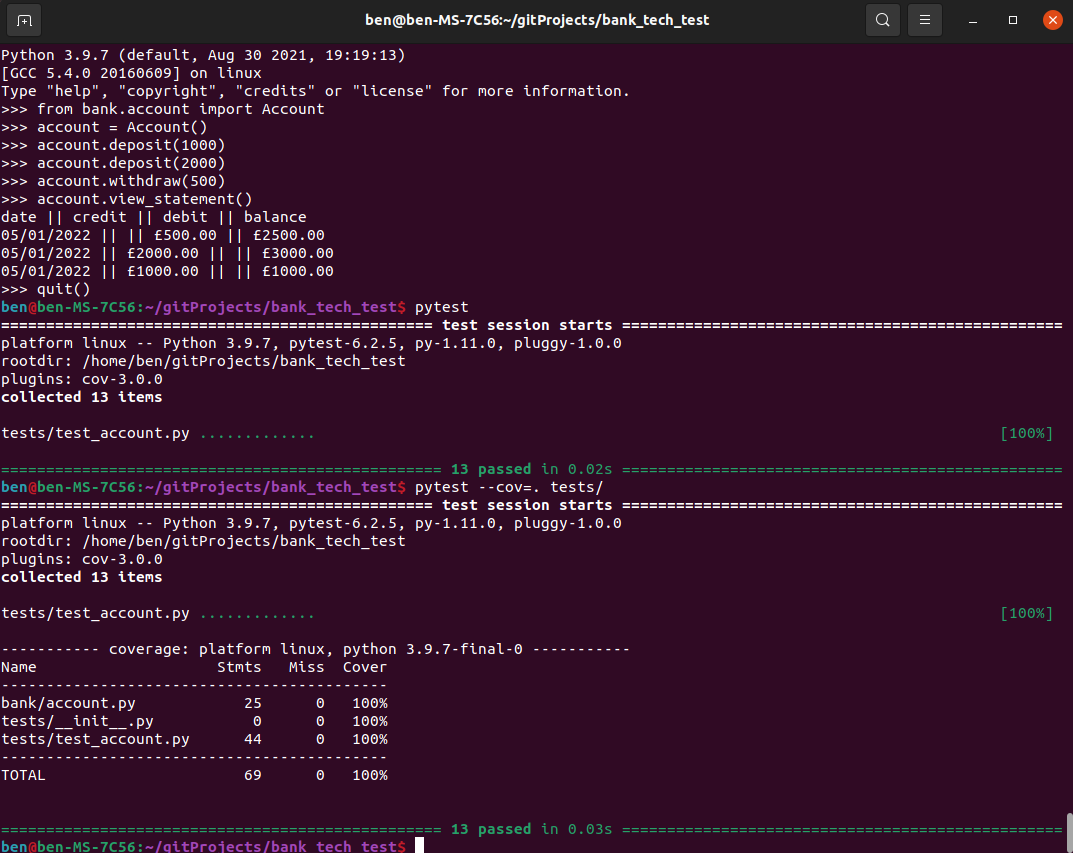
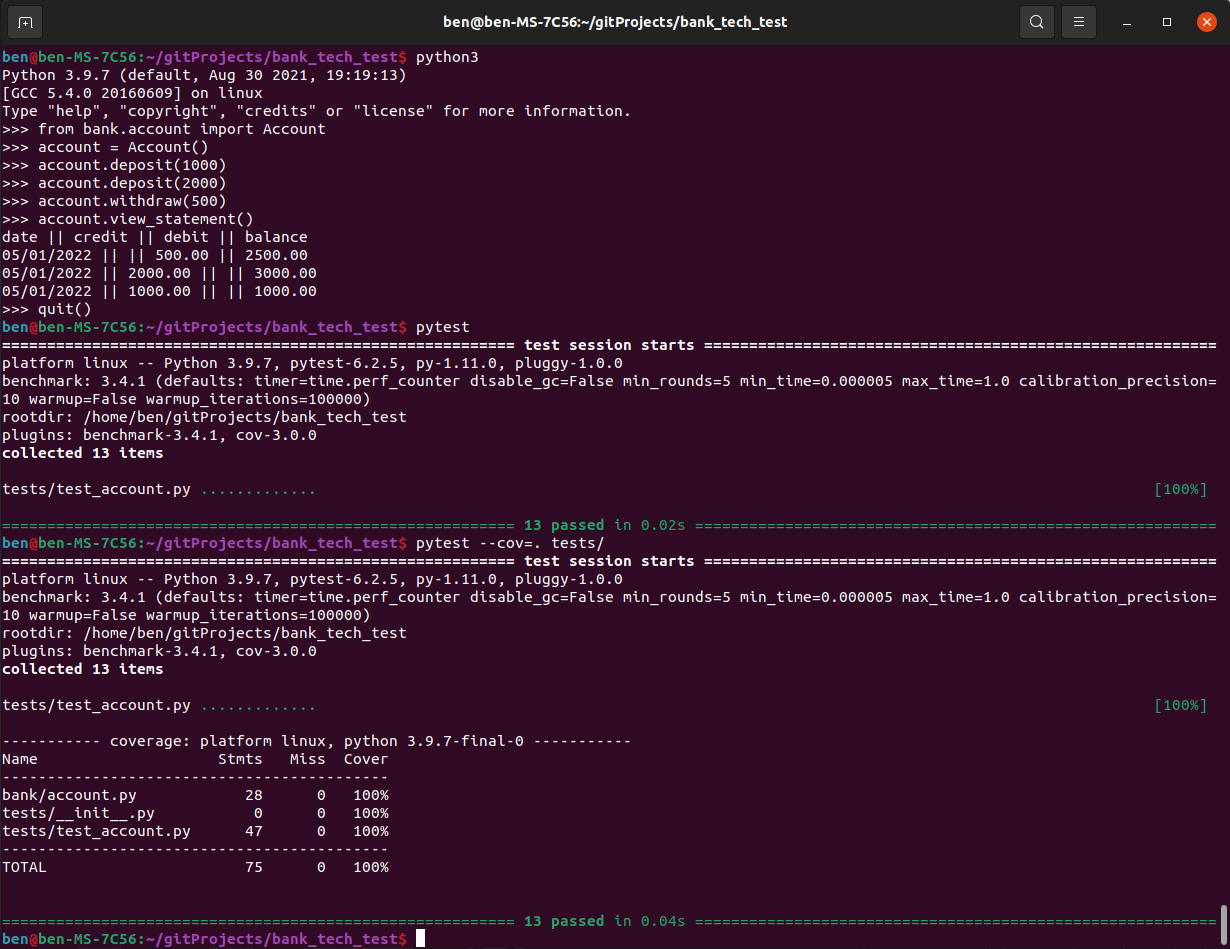
Code quality changes guided by Pylint

diff --git a/tests/test_account.py b/tests/test_account.py
@@ -1,61 +1,80 @@
-from bank.account import Account
+"""
+Testing the Account() class
+"""
+
 import re
 import pytest
+from bank.account import Account
 
-@pytest.fixture
-def account():
+@pytest.fixture(name="account")
+def fixture_account():
+    """Creates an instance of Account() class"""
     account = Account()
     yield account
 
-@pytest.fixture
-def account_deposit(account):
+@pytest.fixture(name="account_deposit")
+def fixture_account_deposit():
+    """Creates an instance of Account class and deposits funds"""
+    account = Account()
     account.deposit(20)
     yield account
 
-@pytest.fixture
-def account_withdraw(account_deposit):
-    account_deposit.withdraw(5)
-    yield account_deposit
+@pytest.fixture(name="account_withdraw")
+def fixture_account_withdraw():
+    """Creates an instance of Account class and deposits and withdraws funds"""
+    account = Account()
+    account.deposit(20)
+    account.withdraw(5)
+    yield account
 
 def test_account(account):
+    """Can create a new instance of Account"""
     assert isinstance(account, Account)
 
 def test_deposit(account_deposit):
+    """Can deposit funds to an account"""
     assert account_deposit.balance == 20
 
 def test_withdraw(account_withdraw):
+    """Can withdraw funds from an account"""
     assert account_withdraw.balance == 15
 
 @pytest.mark.parametrize("text", ["credit",
-                                "debit", 
-                                "balance",
-                                "£15.00",
-                                "date"])
+    "debit",
+    "balance",
+    "15.00",
+    "date"])
 
 def test_display_balance(capfd, account_withdraw, text):
+    """Prints out a statement to the console"""
     account_withdraw.view_statement()
-    statement, err = capfd.readouterr()
+    statement = capfd.readouterr().out
     assert text in statement
 
 def test_date_format(capfd, account_withdraw):
+    """The date is printed in the format DD/MM/YYYY"""
     account_withdraw.view_statement()
-    statement, err = capfd.readouterr()
-    pattern = '.*?(0?[1-9]|[12][0-9]|3[01])[\/\-](0?[1-9]|1[012])[\/\-]\d{4}.*?'
-    assert isinstance(re.search(pattern, statement), re.Match)
+    statement = capfd.readouterr().out
+    regex = r'.*?(0?[1-9]|[12][0-9]|3[01])[\/\-](0?[1-9]|1[012])[\/\-]\d{4}.*?'
+    assert isinstance(re.search(regex, statement), re.Match)
 
-def test_display_balance_reverse_order(capfd, account_withdraw):
+def test_display_balance_newest_to_oldest(capfd, account_withdraw):
+    """Transactions are displayed from newest to oldest"""
     account_withdraw.view_statement()
-    statement, err = capfd.readouterr()
-    assert isinstance(re.search('£15.00.*?\n.*?£20.00', statement), re.Match)
+    statement = statement = capfd.readouterr().out
+    assert isinstance(re.search('15.00.*?\n.*?20.00', statement), re.Match)
 
 def test_balance_cannot_go_below_nil(account):
+    """Cannot withdraw below nil balance"""
     with pytest.raises(Exception, match='Insufficient funds'):
         account.withdraw(5)
-    
+
 def test_deposit_must_be_int_or_float(account):
+    """A deposit must be an integer or float"""
     with pytest.raises(Exception, match='Must be a number'):
         account.deposit('money')
 
 def test_withdrawal_must_be_int_or_float(account):
+    """A withdrawal must be an integer or float"""
     with pytest.raises(Exception, match='Must be a number'):
         account.withdraw('money')

diff --git a/bank/account.py b/bank/account.py
@@ -1,14 +1,21 @@
-import re
+"""
+Allows the user to create an account, deposit and withdraw funds, and view their
+transaction history.
+"""
+
 import datetime
 
 class Account:
+    """Deposit funds, withdraw funds, view transactions history"""
 
     def __init__(self):
+        """Account instance stores current balance and transaction history"""
         self.balance = 0.0
         self.__transactions = []
-    
+
     def deposit(self, amount):
-        self.__validate_number(amount)
+        """User can despoit funds to their account"""
+        validate_number(amount)
         self.balance += amount
         self.__transactions.append({
             'type': 'cr',
@@ -18,8 +25,10 @@ class Account:
         })
 
     def withdraw(self, amount):
-        self.__validate_number(amount)
-        if self.balance < amount: raise Exception('Insufficient funds')
+        """User can withdraw funds from their account"""
+        validate_number(amount)
+        if self.balance < amount:
+            raise Exception('Insufficient funds')
         self.balance -= amount
         self.__transactions.append({
             'type': 'dr',
@@ -29,13 +38,18 @@ class Account:
         })
 
     def view_statement(self):
+        """User can view their statement showing transaction history"""
         print('date || credit || debit || balance')
         transactions = self.__transactions[::-1]
-        for tr in transactions:
-            print_tr = (tr['date'], tr['amount'], tr['balance'])
-            if tr['type'] == 'cr': print("%s || £%.2f || || £%.2f" %print_tr)
-            elif tr['type'] == 'dr': print("%s || || £%.2f || £%.2f" %print_tr)
+        for trans in transactions:
+            amount = format(trans['amount'], '.2f')
+            balance = format(trans['balance'], '.2f')
+            if trans['type'] == 'cr':
+                print(f"{trans['date']} || {amount} || || {balance}")
+            elif trans['type'] == 'dr':
+                print(f"{trans['date']} || || {amount} || {balance}")
 
-    def __validate_number(self, number):
-        if not isinstance(number, (int, float)): 
-            raise Exception('Must be a number')
+def validate_number(number):
+    """Validates that a deposit or withdrawal is an integer or float"""
+    if not isinstance(number, (int, float)):
+        raise Exception('Must be a number')

diff --git a/README.md b/README.md
@@ -39,6 +39,12 @@ pip install pytest-cov
 pytest --cov=. tests/
 ```
 
+Pylint was used to check code quality. You can run it by navigating to the parent directory and running:
+```
+pip install pylint
+pylint bank-tech-test
+```
+
 ![](images/CLI.png)
 
 ### Approach
@@ -75,7 +81,7 @@ I want to be able to see an account statement
 
 I wanted to start with user stories to break the task down into its smallest components and ensure I am only implementing the features required. I than drew a UML diagram to ensure that my approach would work in order to avoid the potential for extensive refactoring later.
 
-I think its beneficial to work towards a skeleton of the features I'm looking to build, so I can understand if the bigger picture will fit together. To this end, I wanted to look at all user stories first before moving on to refactoring the code and tests, and looking at edge cases.
+I think its beneficial to work towards a skeleton of the features I'm looking to build, so I can understand if the bigger picture will fit together. To this end, I wanted to look at all user stories first before moving on to refactoring the code, refactoring tests, looking at edge cases and finally using a linter.
 
 The main thinking points from the task:
 * Transactions from newest to oldest: I overcomplicated this issue by trying to create a new running total on each print out of the statement (which required additional work due to the reverse order), before realising at the refactor stage that the best solution was to simply add the balance to the list of transactions when it is created as it will not change.
